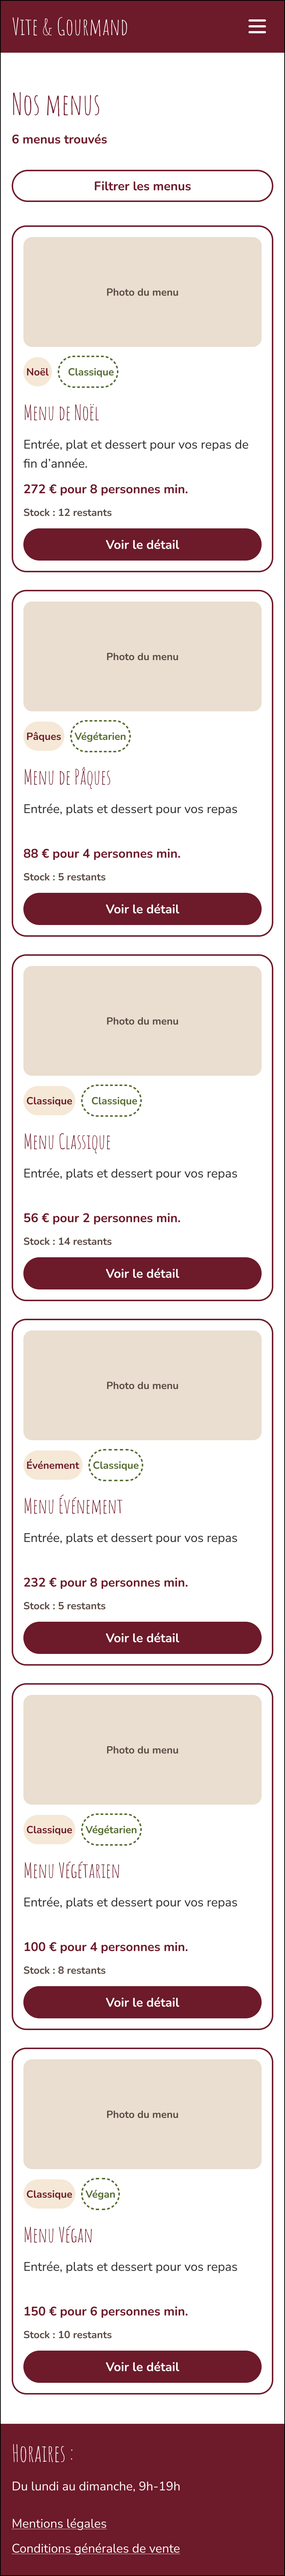
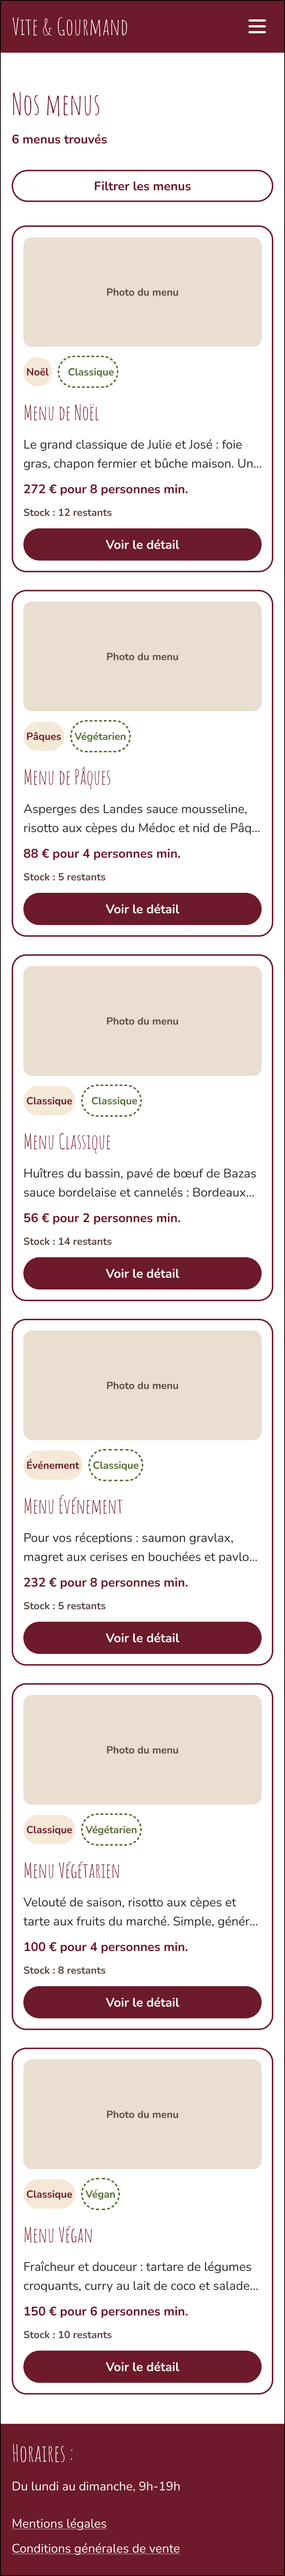
data: catalogue de démonstration, maquettes alignées sur l'énoncé
02-data.sql : rôles, thèmes, régimes, 14 allergènes, 20 plats, 6 menus et leur composition, horaires. Testé sur PostgreSQL 16 après 01-schema.sql.

Livraison conforme à l'énoncé : gratuite dans Bordeaux, 5 € + 0,59 €/km au-delà (maquette Commande : Mérignac, 10 km, total 500,50 €). Cartes menu : début de la description longue, coupé à 2 lignes.

diff --git a/Database/donnees/menus-et-allergenes.md b/Database/donnees/menus-et-allergenes.md
@@ -69,13 +69,12 @@ Source de référence : maquettes Figma 02-Menus et 07-Commande (bureau et mobil
 | M5 | Menu Végétarien | Classique | Végétarien | 4 | 100 € | 25 € | 8 | E3, P3, D3 |
 | M6 | Menu Végan | Classique | Végan | 6 | 150 € | 25 € | 10 | E5, P4, D4 |
 
-Plats sans menu pour l'instant : P2 (agneau de Pauillac), P5 (lotte à l'armoricaine).
+Plats sans menu pour l'instant : E4 (œufs mimosa), P2 (agneau de Pauillac), P5 (lotte à l'armoricaine).
 
-### Descriptions courtes (cartes menu)
-- M1 : Entrée, plat et dessert pour vos repas de fin d'année.
-- M2 à M6 : Entrée, plats et dessert pour vos repas
+### Description affichée sur les cartes menu
+L'énoncé ne prévoit qu'une description par menu : la base stocke la description longue ci-dessous. Les cartes de la vue globale en affichent le début, coupé à 2 lignes en CSS, comme sur les maquettes.
 
-### Descriptions longues (fiche détail, page non maquettée)
+### Descriptions (fiche détail en entier, début sur les cartes)
 - M1 Menu de Noël : Le grand classique de Julie et José : foie gras, chapon fermier et bûche maison. Un repas de fête complet, livré prêt à réchauffer.
 - M2 Menu de Pâques : Asperges des Landes sauce mousseline, risotto aux cèpes du Médoc et nid de Pâques chocolaté : un déjeuner de printemps sans viande.
 - M3 Menu Classique : Huîtres du bassin, pavé de bœuf de Bazas sauce bordelaise et cannelés : Bordeaux dans l'assiette, pour deux ou pour dix.
@@ -93,7 +92,8 @@ Plats sans menu pour l'instant : P2 (agneau de Pauillac), P5 (lotte à l'armoric
 
 ### Règles de prix (maquette Commande)
 - Remise de 10 % à partir de 5 personnes de plus que le minimum du menu (exemple : 13 personnes et plus pour le Menu de Noël).
-- Livraison dans Bordeaux : 5 €.
+- Livraison dans Bordeaux : gratuite.
+- Livraison hors de Bordeaux : 5 € majorés de 0,59 € par kilomètre parcouru (énoncé). Exemple de la maquette Commande : Mérignac, 10 km, soit 5 + 5,90 = 10,90 €.
 
 ## Horaires (pied de page des maquettes)
 Du lundi au dimanche, 9 h - 19 h 
